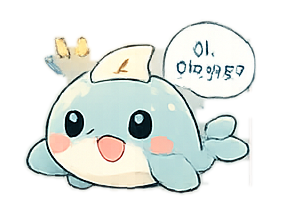
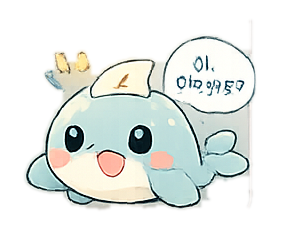
[#62] 스프라이트에 남던 네모난 바탕 자국을 없앤다
원본 시트에는 컷마다 옅은 카드 판이 깔려 있다. 이 테두리가 닫힌 사각형이라,
배경을 따낼 때 "선 안쪽 구멍을 채우는" 단계에서 카드 안쪽이 통째로 그림으로
딸려 왔다 — 밝은 배경 위에 얹으면 고래 뒤로 네모난 자국이 보였다.

문턱값을 올리면(26) 자국은 사라지지만 물보라·zzz·하트 같은 흐린 선이 같이
끊어져서 못 쓴다. 그래서 문턱값은 그대로 두고, 구멍을 채우기 전에 카드
테두리만 골라 지운다: 가로·세로 양쪽으로 칸을 길게(45%) 가로지르면서 제
bbox 는 12%도 못 채우는 성분 = 속 빈 사각 테두리. 고래는 윤곽이 곡선이라
세로로 길게 곧지 않고 속이 꽉 차 있어서 걸리지 않는다.

러프 스케치 판(시트3) 일부 컷에는 아직 옅게 남는다.

Changed region(s): [[0.0854, 0.0837, 0.911, 0.9209], [0.6548, 0.7256, 0.6833, 0.7814], [0.8256, 0.1395, 0.8541, 0.1674]]

diff --git a/haeun/design-reference/interaction/_manifest.js b/haeun/design-reference/interaction/_manifest.js
@@ -1,1 +1,1 @@
-window.LOU_INTERACTION = {"note": "_cut.py 가 _source/ 시트에서 자동으로 만든다. 손으로 고치지 말 것.", "gestures": {"click": {"label": "클릭 (한 번 누르기)", "sequences": {}, "random": [{"file": "random/multiclick_seq1_02.png", "note": "톡 누르면 놀란다", "sameAs": "../multiclick/seq1/02.png"}, {"file": "random/idle_seq1_03.png", "note": "톡 누르면 실눈을 뜬다", "sameAs": "../idle/seq1/03.png"}, {"file": "random/pet_seq1_04.png", "note": "톡 누르면 하트가 터진다", "sameAs": "../pet/seq1/04.png"}, {"file": "random/drag_seq1_05.png", "note": "톡 누르면 기뻐한다", "sameAs": "../drag/seq1/05.png"}, {"file": "random/shake_seq2_02.png", "note": "톡 누르면 화들짝", "sameAs": "../shake/seq2/02.png"}]}, "multiclick": {"label": "연속 클릭", "sequences": {"seq1": {"source": "sheet2_five_gestures.png", "size": [257, 192], "frames": [{"file": "seq1/01.png", "note": "평온", "hasHand": false}, {"file": "seq1/02.png", "note": "어? 놀란다", "hasHand": false}, {"file": "seq1/03.png", "note": "슬슬 짜증", "hasHand": false}, {"file": "seq1/04.png", "note": "화난다", "hasHand": false}, {"file": "seq1/05.png", "note": "삐져서 등을 돌린다", "hasHand": false}]}, "seq2": {"source": "sheet3_sketch.png", "size": [466, 271], "frames": [{"file": "seq2/01.png", "note": "손이 누른다", "hasHand": true}, {"file": "seq2/02.png", "note": "처음엔 좋아한다", "hasHand": false}, {"file": "seq2/03.png", "note": "점점 지친다", "hasHand": false}, {"file": "seq2/04.png", "note": "결국 소리친다", "hasHand": false}, {"file": "seq2/05.png", "note": "드러누워 버린다", "hasHand": false}]}}, "random": [{"file": "random/seq1_01.png", "note": "평온", "sameAs": "seq1/01.png"}, {"file": "random/seq1_02.png", "note": "어? 놀란다", "sameAs": "seq1/02.png"}, {"file": "random/seq1_03.png", "note": "슬슬 짜증", "sameAs": "seq1/03.png"}, {"file": "random/seq1_04.png", "note": "화난다", "sameAs": "seq1/04.png"}, {"file": "random/seq1_05.png", "note": "삐져서 등을 돌린다", "sameAs": "seq1/05.png"}, {"file": "random/seq2_02.png", "note": "처음엔 좋아한다", "sameAs": "seq2/02.png"}, {"file": "random/seq2_03.png", "note": "점점 지친다", "sameAs": "seq2/03.png"}, {"file": "random/seq2_04.png", "note": "결국 소리친다", "sameAs": "seq2/04.png"}, {"file": "random/seq2_05.png", "note": "드러누워 버린다", "sameAs": "seq2/05.png"}]}, "drag": {"label": "드래그", "sequences": {"seq1": {"source": "sheet2_five_gestures.png", "size": [346, 178], "frames": [{"file": "seq1/01.png", "note": "끌 수 있다는 안내 (점선 + 손)", "hasHand": true}, {"file": "seq1/02.png", "note": "손에 잡혀 끌려가기 시작", "hasHand": true}, {"file": "seq1/03.png", "note": "커서를 따라 헤엄친다", "hasHand": false}, {"file": "seq1/04.png", "note": "빠르게 휘두르면 소용돌이", "hasHand": false}, {"file": "seq1/05.png", "note": "놓아주면 기뻐한다", "hasHand": false}]}, "seq2": {"source": "sheet3_sketch.png", "size": [463, 281], "frames": [{"file": "seq2/01.png", "note": "손에 밀려 옆으로 끌린다", "hasHand": true}, {"file": "seq2/02.png", "note": "신나서 파닥인다", "hasHand": false}, {"file": "seq2/03.png", "note": "지쳐서 한숨", "hasHand": false}]}}, "random": [{"file": "random/seq1_03.png", "note": "커서를 따라 헤엄친다", "sameAs": "seq1/03.png"}, {"file": "random/seq1_05.png", "note": "놓아주면 기뻐한다", "sameAs": "seq1/05.png"}, {"file": "random/seq2_02.png", "note": "신나서 파닥인다", "sameAs": "seq2/02.png"}, {"file": "random/seq2_03.png", "note": "지쳐서 한숨", "sameAs": "seq2/03.png"}]}, "pet": {"label": "터치 & 쓰다듬기", "sequences": {"seq1": {"source": "sheet2_five_gestures.png", "size": [264, 191], "frames": [{"file": "seq1/01.png", "note": "가만히 기다린다", "hasHand": false}, {"file": "seq1/02.png", "note": "쓰다듬는 손을 느낀다", "hasHand": true}, {"file": "seq1/03.png", "note": "좋아서 눈을 감는다", "hasHand": false}, {"file": "seq1/04.png", "note": "하트가 터진다", "hasHand": false}, {"file": "seq1/05.png", "note": "행복하게 늘어진다", "hasHand": false}]}, "seq2": {"source": "sheet3_sketch.png", "size": [281, 215], "frames": [{"file": "seq2/01.png", "note": "졸린 채 기다린다", "hasHand": false}, {"file": "seq2/02.png", "note": "손이 머리를 쓸어준다", "hasHand": true}, {"file": "seq2/03.png", "note": "기분 좋아 눈을 감는다", "hasHand": false}, {"file": "seq2/04.png", "note": "스르르 잠든다 (zzz)", "hasHand": false}, {"file": "seq2/05.png", "note": "깜짝 깨어난다", "hasHand": false}, {"file": "seq2/06.png", "note": "\"아, 아직 있었어요?\"", "hasHand": false}]}}, "random": [{"file": "random/seq1_01.png", "note": "가만히 기다린다", "sameAs": "seq1/01.png"}, {"file": "random/seq1_03.png", "note": "좋아서 눈을 감는다", "sameAs": "seq1/03.png"}, {"file": "random/seq1_04.png", "note": "하트가 터진다", "sameAs": "seq1/04.png"}, {"file": "random/seq1_05.png", "note": "행복하게 늘어진다", "sameAs": "seq1/05.png"}, {"file": "random/seq2_01.png", "note": "졸린 채 기다린다", "sameAs": "seq2/01.png"}, {"file": "random/seq2_03.png", "note": "기분 좋아 눈을 감는다", "sameAs": "seq2/03.png"}, {"file": "random/seq2_04.png", "note": "스르르 잠든다 (zzz)", "sameAs": "seq2/04.png"}, {"file": "random/seq2_05.png", "note": "깜짝 깨어난다", "sameAs": "seq2/05.png"}, {"file": "random/seq2_06.png", "note": "\"아, 아직 있었어요?\"", "sameAs": "seq2/06.png"}]}, "longpress": {"label": "길게 누르기", "sequences": {"seq1": {"source": "sheet2_five_gestures.png", "size": [305, 190], "frames": [{"file": "seq1/01.png", "note": "누르기 시작", "hasHand": false}, {"file": "seq1/02.png", "note": "기다리는 중 (…)", "hasHand": false}, {"file": "seq1/03.png", "note": "눈을 감는다", "hasHand": false}, {"file": "seq1/04.png", "note": "잠들어 버린다 (zzz)", "hasHand": false}, {"file": "seq1/05.png", "note": "놓으면 깨어나 \"어… 있었어요?\"", "hasHand": false}]}}, "random": [{"file": "random/seq1_01.png", "note": "누르기 시작", "sameAs": "seq1/01.png"}, {"file": "random/seq1_02.png", "note": "기다리는 중 (…)", "sameAs": "seq1/02.png"}, {"file": "random/seq1_03.png", "note": "눈을 감는다", "sameAs": "seq1/03.png"}, {"file": "random/seq1_04.png", "note": "잠들어 버린다 (zzz)", "sameAs": "seq1/04.png"}, {"file": "random/seq1_05.png", "note": "놓으면 깨어나 \"어… 있었어요?\"", "sameAs": "seq1/05.png"}]}, "shake": {"label": "흔들기 (모바일 전용)", "sequences": {"seq1": {"source": "sheet1_shake_idle.png", "size": [291, 294], "frames": [{"file": "seq1/01.png", "note": "가만히 있다 흔들림을 느낀다", "hasHand": false}, {"file": "seq1/02.png", "note": "깜짝 놀란다", "hasHand": false}, {"file": "seq1/03.png", "note": "물살에 휩쓸려 구른다", "hasHand": false}, {"file": "seq1/04.png", "note": "빙글빙글 돌아 눈이 핑 돈다", "hasHand": false}, {"file": "seq1/05.png", "note": "어지러워 멈춘다", "hasHand": false}]}, "seq2": {"source": "sheet2_five_gestures.png", "size": [236, 176], "frames": [{"file": "seq2/01.png", "note": "평온", "hasHand": false}, {"file": "seq2/02.png", "note": "흔들림에 놀란다", "hasHand": false}, {"file": "seq2/03.png", "note": "물보라를 맞고 휘청인다", "hasHand": false}, {"file": "seq2/04.png", "note": "뒤집혀 돈다", "hasHand": false}, {"file": "seq2/05.png", "note": "눈이 핑 돈 채 뻗는다", "hasHand": false}, {"file": "seq2/06.png", "note": "완전히 어지러워 굳는다", "hasHand": false}]}}, "random": [{"file": "random/seq1_01.png", "note": "가만히 있다 흔들림을 느낀다", "sameAs": "seq1/01.png"}, {"file": "random/seq1_02.png", "note": "깜짝 놀란다", "sameAs": "seq1/02.png"}, {"file": "random/seq1_05.png", "note": "어지러워 멈춘다", "sameAs": "seq1/05.png"}, {"file": "random/seq2_01.png", "note": "평온", "sameAs": "seq2/01.png"}, {"file": "random/seq2_02.png", "note": "흔들림에 놀란다", "sameAs": "seq2/02.png"}, {"file": "random/seq2_05.png", "note": "눈이 핑 돈 채 뻗는다", "sameAs": "seq2/05.png"}, {"file": "random/seq2_06.png", "note": "완전히 어지러워 굳는다", "sameAs": "seq2/06.png"}]}, "idle": {"label": "아무것도 안 하기 (Idle)", "sequences": {"seq1": {"source": "sheet1_shake_idle.png", "size": [275, 235], "frames": [{"file": "seq1/01.png", "note": "기본 대기", "hasHand": false}, {"file": "seq1/02.png", "note": "눈을 깜빡인다", "hasHand": false}, {"file": "seq1/03.png", "note": "실눈을 뜬다", "hasHand": false}, {"file": "seq1/04.png", "note": "크게 하품한다", "hasHand": false}, {"file": "seq1/05.png", "note": "하품 끝, 한숨", "hasHand": false}]}, "seq2": {"source": "sheet1_shake_idle.png", "size": [288, 243], "frames": [{"file": "seq2/01.png", "note": "졸려서 눈이 감긴다", "hasHand": false}, {"file": "seq2/02.png", "note": "잠든다 (zzz)", "hasHand": false}, {"file": "seq2/03.png", "note": "깊게 잠든다 (zzz)", "hasHand": false}, {"file": "seq2/04.png", "note": "깜짝 깨어난다", "hasHand": false}, {"file": "seq2/05.png", "note": "\"어… 있었어요?\"", "hasHand": false}]}}, "random": [{"file": "random/seq1_01.png", "note": "기본 대기", "sameAs": "seq1/01.png"}, {"file": "random/seq1_02.png", "note": "눈을 깜빡인다", "sameAs": "seq1/02.png"}, {"file": "random/seq1_03.png", "note": "실눈을 뜬다", "sameAs": "seq1/03.png"}, {"file": "random/seq1_04.png", "note": "크게 하품한다", "sameAs": "seq1/04.png"}, {"file": "random/seq1_05.png", "note": "하품 끝, 한숨", "sameAs": "seq1/05.png"}, {"file": "random/seq2_01.png", "note": "졸려서 눈이 감긴다", "sameAs": "seq2/01.png"}, {"file": "random/seq2_02.png", "note": "잠든다 (zzz)", "sameAs": "seq2/02.png"}, {"file": "random/seq2_03.png", "note": "깊게 잠든다 (zzz)", "sameAs": "seq2/03.png"}, {"file": "random/seq2_04.png", "note": "깜짝 깨어난다", "sameAs": "seq2/04.png"}, {"file": "random/seq2_05.png", "note": "\"어… 있었어요?\"", "sameAs": "seq2/05.png"}]}}};
+window.LOU_INTERACTION = {"note": "_cut.py 가 _source/ 시트에서 자동으로 만든다. 손으로 고치지 말 것.", "gestures": {"click": {"label": "클릭 (한 번 누르기)", "sequences": {}, "random": [{"file": "random/multiclick_seq1_02.png", "note": "톡 누르면 놀란다", "sameAs": "../multiclick/seq1/02.png"}, {"file": "random/idle_seq1_03.png", "note": "톡 누르면 실눈을 뜬다", "sameAs": "../idle/seq1/03.png"}, {"file": "random/pet_seq1_04.png", "note": "톡 누르면 하트가 터진다", "sameAs": "../pet/seq1/04.png"}, {"file": "random/drag_seq1_05.png", "note": "톡 누르면 기뻐한다", "sameAs": "../drag/seq1/05.png"}, {"file": "random/shake_seq2_02.png", "note": "톡 누르면 화들짝", "sameAs": "../shake/seq2/02.png"}]}, "multiclick": {"label": "연속 클릭", "sequences": {"seq1": {"source": "sheet2_five_gestures.png", "size": [257, 192], "frames": [{"file": "seq1/01.png", "note": "평온", "hasHand": false}, {"file": "seq1/02.png", "note": "어? 놀란다", "hasHand": false}, {"file": "seq1/03.png", "note": "슬슬 짜증", "hasHand": false}, {"file": "seq1/04.png", "note": "화난다", "hasHand": false}, {"file": "seq1/05.png", "note": "삐져서 등을 돌린다", "hasHand": false}]}, "seq2": {"source": "sheet3_sketch.png", "size": [468, 272], "frames": [{"file": "seq2/01.png", "note": "손이 누른다", "hasHand": true}, {"file": "seq2/02.png", "note": "처음엔 좋아한다", "hasHand": false}, {"file": "seq2/03.png", "note": "점점 지친다", "hasHand": false}, {"file": "seq2/04.png", "note": "결국 소리친다", "hasHand": false}, {"file": "seq2/05.png", "note": "드러누워 버린다", "hasHand": false}]}}, "random": [{"file": "random/seq1_01.png", "note": "평온", "sameAs": "seq1/01.png"}, {"file": "random/seq1_02.png", "note": "어? 놀란다", "sameAs": "seq1/02.png"}, {"file": "random/seq1_03.png", "note": "슬슬 짜증", "sameAs": "seq1/03.png"}, {"file": "random/seq1_04.png", "note": "화난다", "sameAs": "seq1/04.png"}, {"file": "random/seq1_05.png", "note": "삐져서 등을 돌린다", "sameAs": "seq1/05.png"}, {"file": "random/seq2_02.png", "note": "처음엔 좋아한다", "sameAs": "seq2/02.png"}, {"file": "random/seq2_03.png", "note": "점점 지친다", "sameAs": "seq2/03.png"}, {"file": "random/seq2_04.png", "note": "결국 소리친다", "sameAs": "seq2/04.png"}, {"file": "random/seq2_05.png", "note": "드러누워 버린다", "sameAs": "seq2/05.png"}]}, "drag": {"label": "드래그", "sequences": {"seq1": {"source": "sheet2_five_gestures.png", "size": [346, 178], "frames": [{"file": "seq1/01.png", "note": "끌 수 있다는 안내 (점선 + 손)", "hasHand": true}, {"file": "seq1/02.png", "note": "손에 잡혀 끌려가기 시작", "hasHand": true}, {"file": "seq1/03.png", "note": "커서를 따라 헤엄친다", "hasHand": false}, {"file": "seq1/04.png", "note": "빠르게 휘두르면 소용돌이", "hasHand": false}, {"file": "seq1/05.png", "note": "놓아주면 기뻐한다", "hasHand": false}]}, "seq2": {"source": "sheet3_sketch.png", "size": [464, 287], "frames": [{"file": "seq2/01.png", "note": "손에 밀려 옆으로 끌린다", "hasHand": true}, {"file": "seq2/02.png", "note": "신나서 파닥인다", "hasHand": false}, {"file": "seq2/03.png", "note": "지쳐서 한숨", "hasHand": false}]}}, "random": [{"file": "random/seq1_03.png", "note": "커서를 따라 헤엄친다", "sameAs": "seq1/03.png"}, {"file": "random/seq1_05.png", "note": "놓아주면 기뻐한다", "sameAs": "seq1/05.png"}, {"file": "random/seq2_02.png", "note": "신나서 파닥인다", "sameAs": "seq2/02.png"}, {"file": "random/seq2_03.png", "note": "지쳐서 한숨", "sameAs": "seq2/03.png"}]}, "pet": {"label": "터치 & 쓰다듬기", "sequences": {"seq1": {"source": "sheet2_five_gestures.png", "size": [264, 191], "frames": [{"file": "seq1/01.png", "note": "가만히 기다린다", "hasHand": false}, {"file": "seq1/02.png", "note": "쓰다듬는 손을 느낀다", "hasHand": true}, {"file": "seq1/03.png", "note": "좋아서 눈을 감는다", "hasHand": false}, {"file": "seq1/04.png", "note": "하트가 터진다", "hasHand": false}, {"file": "seq1/05.png", "note": "행복하게 늘어진다", "hasHand": false}]}, "seq2": {"source": "sheet3_sketch.png", "size": [281, 231], "frames": [{"file": "seq2/01.png", "note": "졸린 채 기다린다", "hasHand": false}, {"file": "seq2/02.png", "note": "손이 머리를 쓸어준다", "hasHand": true}, {"file": "seq2/03.png", "note": "기분 좋아 눈을 감는다", "hasHand": false}, {"file": "seq2/04.png", "note": "스르르 잠든다 (zzz)", "hasHand": false}, {"file": "seq2/05.png", "note": "깜짝 깨어난다", "hasHand": false}, {"file": "seq2/06.png", "note": "\"아, 아직 있었어요?\"", "hasHand": false}]}}, "random": [{"file": "random/seq1_01.png", "note": "가만히 기다린다", "sameAs": "seq1/01.png"}, {"file": "random/seq1_03.png", "note": "좋아서 눈을 감는다", "sameAs": "seq1/03.png"}, {"file": "random/seq1_04.png", "note": "하트가 터진다", "sameAs": "seq1/04.png"}, {"file": "random/seq1_05.png", "note": "행복하게 늘어진다", "sameAs": "seq1/05.png"}, {"file": "random/seq2_01.png", "note": "졸린 채 기다린다", "sameAs": "seq2/01.png"}, {"file": "random/seq2_03.png", "note": "기분 좋아 눈을 감는다", "sameAs": "seq2/03.png"}, {"file": "random/seq2_04.png", "note": "스르르 잠든다 (zzz)", "sameAs": "seq2/04.png"}, {"file": "random/seq2_05.png", "note": "깜짝 깨어난다", "sameAs": "seq2/05.png"}, {"file": "random/seq2_06.png", "note": "\"아, 아직 있었어요?\"", "sameAs": "seq2/06.png"}]}, "longpress": {"label": "길게 누르기", "sequences": {"seq1": {"source": "sheet2_five_gestures.png", "size": [305, 190], "frames": [{"file": "seq1/01.png", "note": "누르기 시작", "hasHand": false}, {"file": "seq1/02.png", "note": "기다리는 중 (…)", "hasHand": false}, {"file": "seq1/03.png", "note": "눈을 감는다", "hasHand": false}, {"file": "seq1/04.png", "note": "잠들어 버린다 (zzz)", "hasHand": false}, {"file": "seq1/05.png", "note": "놓으면 깨어나 \"어… 있었어요?\"", "hasHand": false}]}}, "random": [{"file": "random/seq1_01.png", "note": "누르기 시작", "sameAs": "seq1/01.png"}, {"file": "random/seq1_02.png", "note": "기다리는 중 (…)", "sameAs": "seq1/02.png"}, {"file": "random/seq1_03.png", "note": "눈을 감는다", "sameAs": "seq1/03.png"}, {"file": "random/seq1_04.png", "note": "잠들어 버린다 (zzz)", "sameAs": "seq1/04.png"}, {"file": "random/seq1_05.png", "note": "놓으면 깨어나 \"어… 있었어요?\"", "sameAs": "seq1/05.png"}]}, "shake": {"label": "흔들기 (모바일 전용)", "sequences": {"seq1": {"source": "sheet1_shake_idle.png", "size": [291, 294], "frames": [{"file": "seq1/01.png", "note": "가만히 있다 흔들림을 느낀다", "hasHand": false}, {"file": "seq1/02.png", "note": "깜짝 놀란다", "hasHand": false}, {"file": "seq1/03.png", "note": "물살에 휩쓸려 구른다", "hasHand": false}, {"file": "seq1/04.png", "note": "빙글빙글 돌아 눈이 핑 돈다", "hasHand": false}, {"file": "seq1/05.png", "note": "어지러워 멈춘다", "hasHand": false}]}, "seq2": {"source": "sheet2_five_gestures.png", "size": [236, 176], "frames": [{"file": "seq2/01.png", "note": "평온", "hasHand": false}, {"file": "seq2/02.png", "note": "흔들림에 놀란다", "hasHand": false}, {"file": "seq2/03.png", "note": "물보라를 맞고 휘청인다", "hasHand": false}, {"file": "seq2/04.png", "note": "뒤집혀 돈다", "hasHand": false}, {"file": "seq2/05.png", "note": "눈이 핑 돈 채 뻗는다", "hasHand": false}, {"file": "seq2/06.png", "note": "완전히 어지러워 굳는다", "hasHand": false}]}}, "random": [{"file": "random/seq1_01.png", "note": "가만히 있다 흔들림을 느낀다", "sameAs": "seq1/01.png"}, {"file": "random/seq1_02.png", "note": "깜짝 놀란다", "sameAs": "seq1/02.png"}, {"file": "random/seq1_05.png", "note": "어지러워 멈춘다", "sameAs": "seq1/05.png"}, {"file": "random/seq2_01.png", "note": "평온", "sameAs": "seq2/01.png"}, {"file": "random/seq2_02.png", "note": "흔들림에 놀란다", "sameAs": "seq2/02.png"}, {"file": "random/seq2_05.png", "note": "눈이 핑 돈 채 뻗는다", "sameAs": "seq2/05.png"}, {"file": "random/seq2_06.png", "note": "완전히 어지러워 굳는다", "sameAs": "seq2/06.png"}]}, "idle": {"label": "아무것도 안 하기 (Idle)", "sequences": {"seq1": {"source": "sheet1_shake_idle.png", "size": [275, 235], "frames": [{"file": "seq1/01.png", "note": "기본 대기", "hasHand": false}, {"file": "seq1/02.png", "note": "눈을 깜빡인다", "hasHand": false}, {"file": "seq1/03.png", "note": "실눈을 뜬다", "hasHand": false}, {"file": "seq1/04.png", "note": "크게 하품한다", "hasHand": false}, {"file": "seq1/05.png", "note": "하품 끝, 한숨", "hasHand": false}]}, "seq2": {"source": "sheet1_shake_idle.png", "size": [288, 243], "frames": [{"file": "seq2/01.png", "note": "졸려서 눈이 감긴다", "hasHand": false}, {"file": "seq2/02.png", "note": "잠든다 (zzz)", "hasHand": false}, {"file": "seq2/03.png", "note": "깊게 잠든다 (zzz)", "hasHand": false}, {"file": "seq2/04.png", "note": "깜짝 깨어난다", "hasHand": false}, {"file": "seq2/05.png", "note": "\"어… 있었어요?\"", "hasHand": false}]}}, "random": [{"file": "random/seq1_01.png", "note": "기본 대기", "sameAs": "seq1/01.png"}, {"file": "random/seq1_02.png", "note": "눈을 깜빡인다", "sameAs": "seq1/02.png"}, {"file": "random/seq1_03.png", "note": "실눈을 뜬다", "sameAs": "seq1/03.png"}, {"file": "random/seq1_04.png", "note": "크게 하품한다", "sameAs": "seq1/04.png"}, {"file": "random/seq1_05.png", "note": "하품 끝, 한숨", "sameAs": "seq1/05.png"}, {"file": "random/seq2_01.png", "note": "졸려서 눈이 감긴다", "sameAs": "seq2/01.png"}, {"file": "random/seq2_02.png", "note": "잠든다 (zzz)", "sameAs": "seq2/02.png"}, {"file": "random/seq2_03.png", "note": "깊게 잠든다 (zzz)", "sameAs": "seq2/03.png"}, {"file": "random/seq2_04.png", "note": "깜짝 깨어난다", "sameAs": "seq2/04.png"}, {"file": "random/seq2_05.png", "note": "\"어… 있었어요?\"", "sameAs": "seq2/05.png"}]}}};

diff --git a/haeun/design-reference/interaction/_cut.py b/haeun/design-reference/interaction/_cut.py
@@ -20,8 +20,10 @@ SRC = HERE / "_source"
 
 PAD = 12        # 스프라이트 가장자리에 남기는 투명 여백(px)
 INK = 14        # 배경(저주파 그라데이션)과 그림(고주파)을 가르는 문턱값
-# 3번 시트는 카드 테두리가 진해서 문턱값을 낮게 두면 카드 안쪽까지 통째로 따진다
-INK_PER_SHEET = {"sheet3_sketch.png": 24}
+# 시트마다 종이 질감이 달라 필요하면 여기서 문턱값을 따로 준다
+INK_PER_SHEET = {}
+LINE_RUN = 0.45   # 칸을 이만큼 곧게 가로지르면 직선으로 본다 (카드 테두리 찾기용)
+LINE_FILL = 0.12  # 그러면서 제 bbox 를 이만큼도 못 채우면 속 빈 사각 테두리다
 BLUR = 30       # 배경으로 볼 저주파의 크기
 DIL = 9         # 선을 이어 붙였다 되돌리는 폭 — 그림 내부를 채우려고
 MIN_AREA = 150  # 이보다 작은 조각(노이즈)은 버린다
@@ -201,9 +203,59 @@ def _components(img):
     return lab, stat, find
 
 
+def drop_frame_lines(mask):
+    """원본 카드의 사각 테두리를 지운다.
+
+    안 지우면 테두리가 닫힌 사각형이라, 뒤에서 구멍을 채울 때 카드 안쪽이
+    통째로 그림으로 딸려 와 스프라이트에 네모난 바탕 자국이 남는다.
+    가로·세로 양쪽으로 칸을 길게 가로지르면서 제 bbox 는 거의 못 채우는
+    성분만 고른다 — 고래는 윤곽이 곡선이라 세로로 길게 곧지 않고,
+    속이 꽉 차 있어서 걸리지 않는다.
+    """
+    W, H = mask.size
+    lab, stat, find = _components(mask)
+    run_h, run_v = {}, {}
+    for y in range(H):                       # 성분마다 가장 긴 가로 직선
+        row, cur, n = lab[y], 0, 0
+        for x in range(W):
+            r = find(row[x]) if row[x] else 0
+            if r and r == cur:
+                n += 1
+            else:
+                if cur: run_h[cur] = max(run_h.get(cur, 0), n)
+                cur, n = r, 1 if r else 0
+        if cur: run_h[cur] = max(run_h.get(cur, 0), n)
+    for x in range(W):                       # 세로도 같은 식으로
+        cur, n = 0, 0
+        for y in range(H):
+            r = find(lab[y][x]) if lab[y][x] else 0
+            if r and r == cur:
+                n += 1
+            else:
+                if cur: run_v[cur] = max(run_v.get(cur, 0), n)
+                cur, n = r, 1 if r else 0
+        if cur: run_v[cur] = max(run_v.get(cur, 0), n)
+    bad = set()
+    for r, (x0, y0, x1, y1, area) in stat.items():
+        box = max(1, (x1 - x0 + 1) * (y1 - y0 + 1))
+        if (run_h.get(r, 0) > W * LINE_RUN and run_v.get(r, 0) > H * LINE_RUN
+                and area < box * LINE_FILL):
+            bad.add(r)
+    if not bad:
+        return mask
+    out = mask.copy()
+    op = out.load()
+    for y in range(H):
+        row = lab[y]
+        for x in range(W):
+            if row[x] and find(row[x]) in bad:
+                op[x, y] = 0
+    return out
+
+
 def cutout_alpha(mask_crop):
     """선 마스크 -> 속이 채워진 알파. 노이즈와 카드 테두리는 버린다."""
-    m = mask_crop.filter(ImageFilter.MaxFilter(DIL))
+    m = drop_frame_lines(mask_crop).filter(ImageFilter.MaxFilter(DIL))
     w, h = m.size
     pad = Image.new("L", (w + 4, h + 4), 0)
     pad.paste(m, (2, 2))
